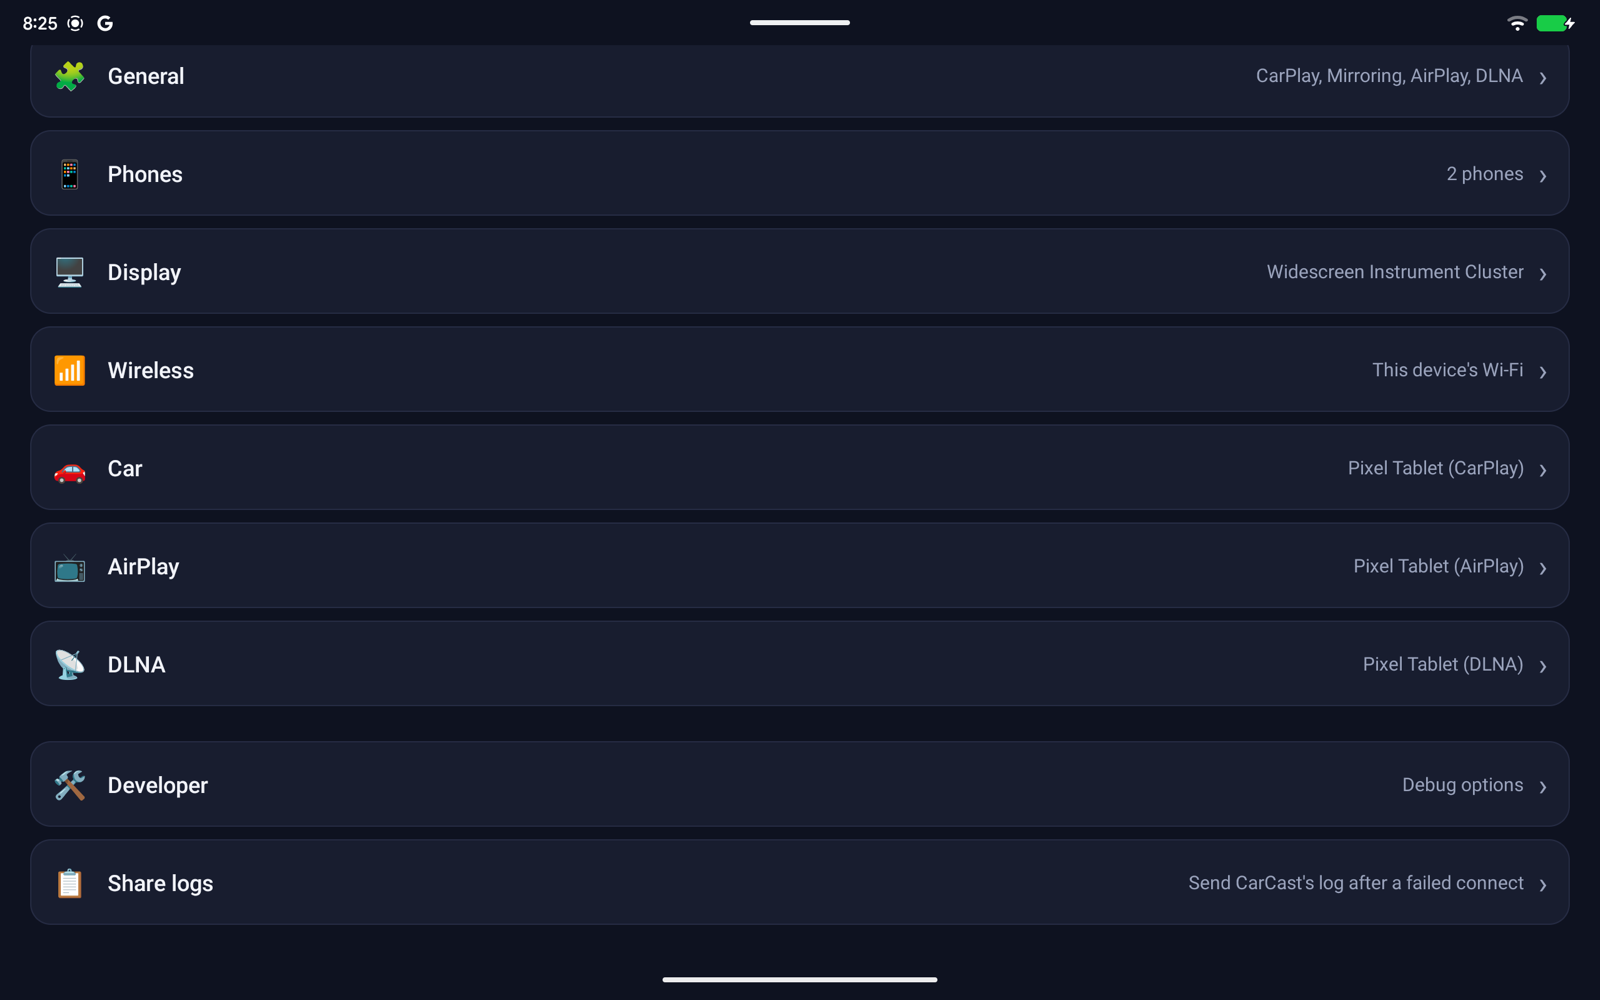
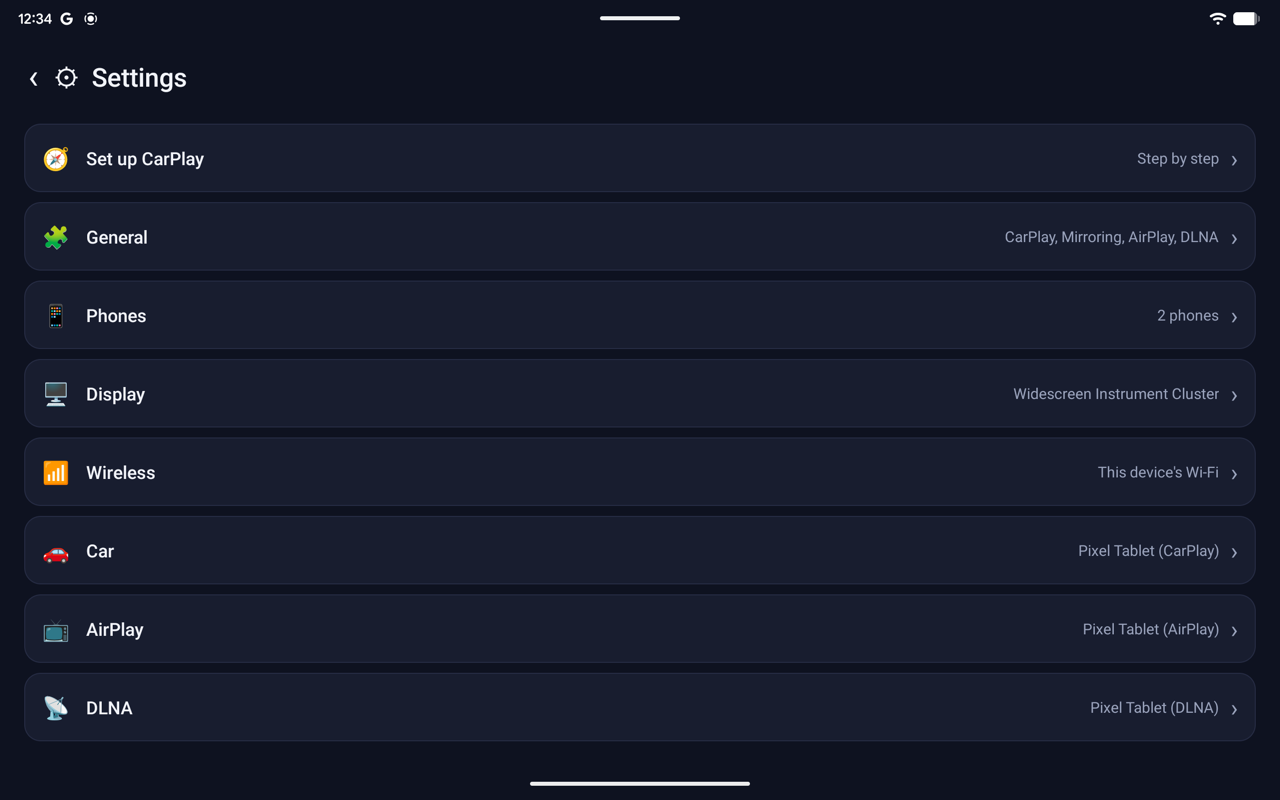
Android: screenshots of every home tab and settings page

diff --git a/README.md b/README.md
@@ -87,9 +87,31 @@ Requirements: a Mac with Apple silicon or Intel, an iPhone with CarPlay enabled,
 
 *CarPlay on a Pixel Tablet, with the vehicle showing a custom OEM icon (LEXUS).*
 
-| Home | Settings |
+### Home
+
+Each mode has its own tab: **CarPlay**, **Mirroring**, **AirPlay** and **DLNA**.
+
+| CarPlay | Mirroring |
 |---|---|
-| ![CarCast home on Android](screenshots/android-home.png) | ![CarCast settings on Android](screenshots/android-settings.png) |
+| ![CarPlay tab](screenshots/android-home-carplay.png) | ![Mirroring tab](screenshots/android-home-mirroring.png) |
+| **AirPlay** | **DLNA** |
+| ![AirPlay tab](screenshots/android-home-airplay.png) | ![DLNA tab](screenshots/android-home-dlna.png) |
+
+### Settings
+
+| Settings | Set up CarPlay (wizard) |
+|---|---|
+| ![Settings](screenshots/android-settings.png) | ![Setup wizard](screenshots/android-setup-wizard.png) |
+| **Display:** resolution, video playback, instrument cluster size and content, two cluster streams, Now Playing card, knob input | **Wireless:** how the iPhone joins Wi-Fi after Bluetooth (this device's network, a private hotspot, a mobile hotspot or Wi-Fi Direct at 5 GHz) |
+| ![Display settings](screenshots/android-settings-display.png) | ![Wireless settings](screenshots/android-settings-wireless.png) |
+| **Car:** the car name and logo the iPhone shows in CarPlay | **Phones:** paired iPhones, pairing and discoverability |
+| ![Car settings](screenshots/android-settings-car.png) | ![Phones](screenshots/android-settings-phones.png) |
+| **AirPlay:** receiver name, mirroring resolution, password, full screen, start at boot | **DLNA:** receiver name, UPnP AV version |
+| ![AirPlay settings](screenshots/android-settings-airplay.png) | ![DLNA settings](screenshots/android-settings-dlna.png) |
+| **General:** which modes are enabled | |
+| ![General settings](screenshots/android-settings-general.png) | |
+
+### Features
 
 - **Wired and wireless CarPlay.** Connect over USB, or pair over Bluetooth and hand off to Wi-Fi.
 - **Several phones.** Pair more than one iPhone and switch between them from the home screen.
